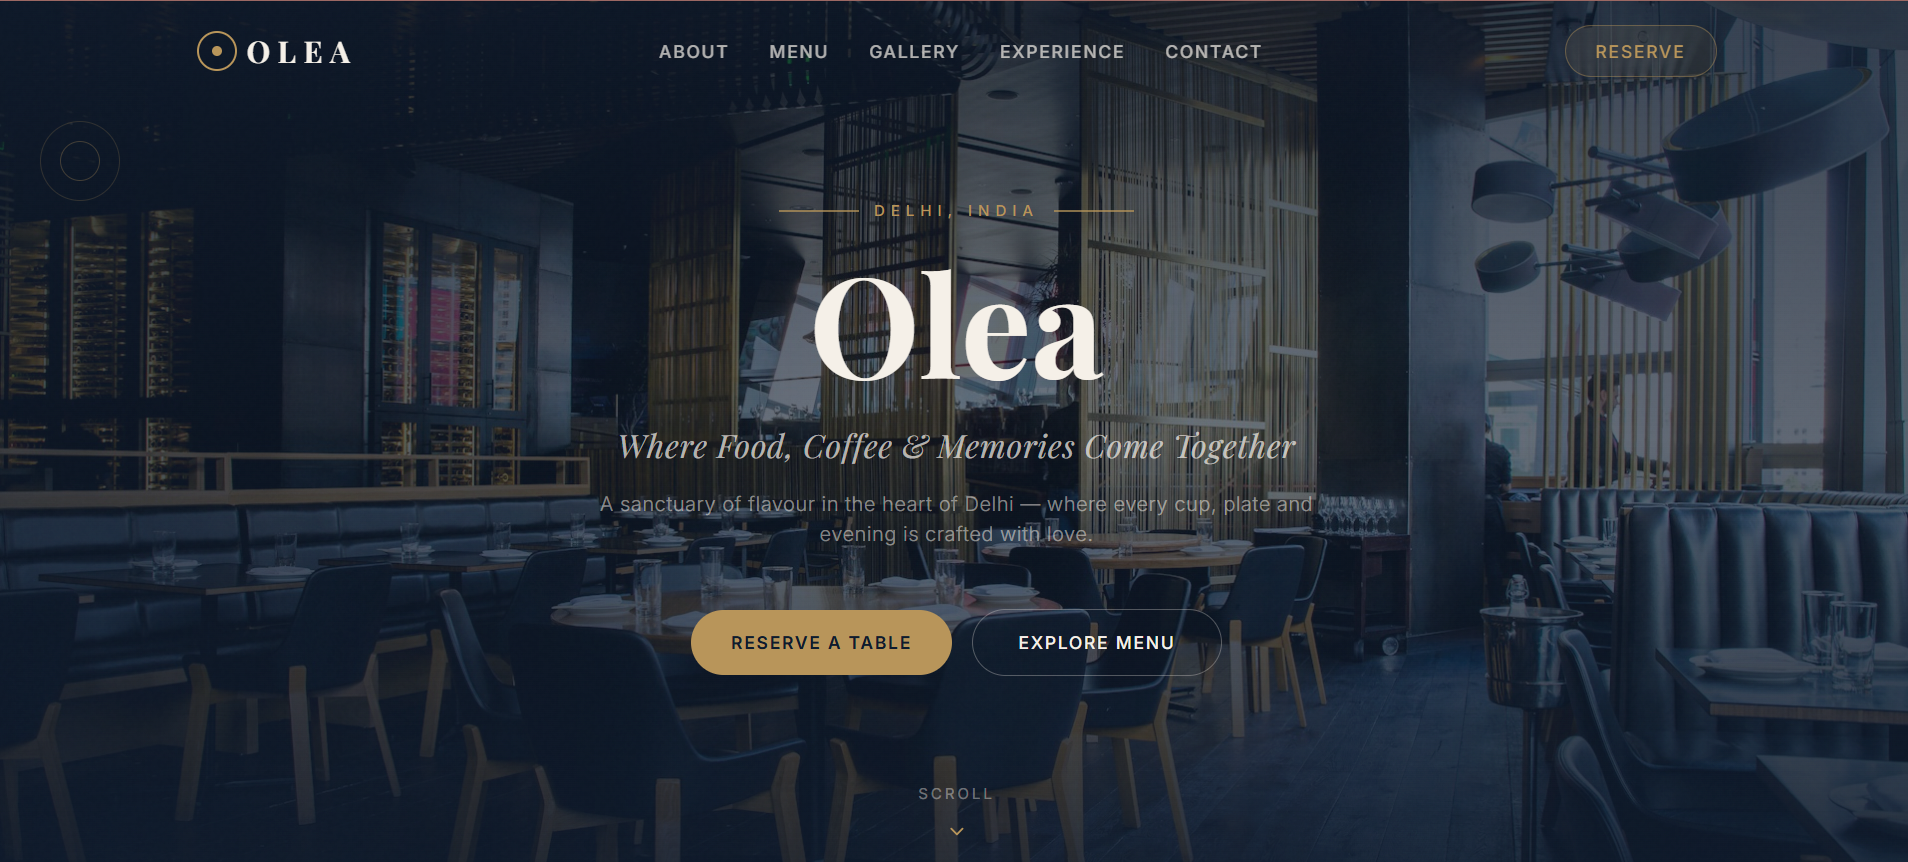
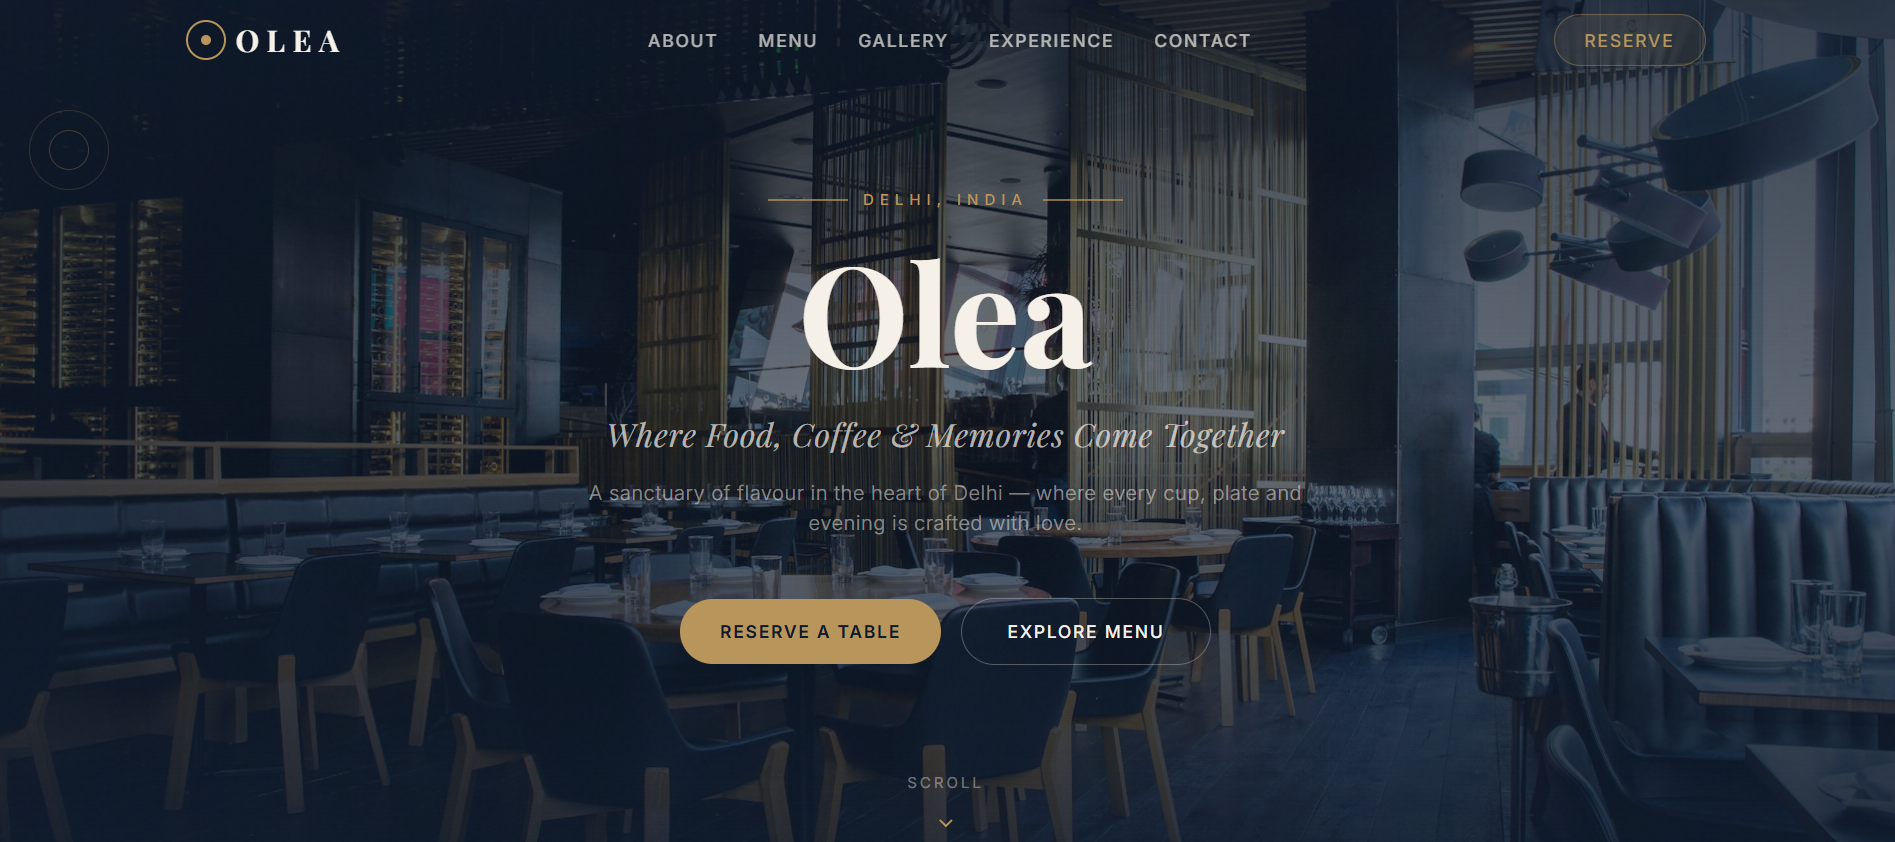
added images of projects

diff --git a/components/ui/ProjectCard.tsx b/components/ui/ProjectCard.tsx
@@ -1,5 +1,6 @@
 import { Github, ExternalLink, ImageIcon } from "lucide-react";
 import { Project } from "@/types";
+import Image from "next/image";
 
 interface ProjectCardProps {
   project: Project;
@@ -9,17 +10,17 @@ export default function ProjectCard({ project }: ProjectCardProps) {
   return (
     <article className="card flex flex-col overflow-hidden group">
       {/* Image placeholder */}
-      <div className="h-44 bg-gradient-to-br from-slate-100 to-blue-50 dark:from-slate-800 dark:to-slate-800/60 flex items-center justify-center border-b border-slate-100 dark:border-slate-800">
-        <div className="flex flex-col items-center gap-2 text-slate-300 dark:text-slate-600">
-          <ImageIcon className="w-8 h-8" />
-          <span className="text-xs font-mono">
-            {project.title.toLowerCase().replace(/\s+/g, "-")}
-          </span>
-        </div>
+      <div className="relative h-44 border-b border-slate-100 dark:border-slate-800">
+        <Image
+          src={project.image}
+          alt={project.title}
+          fill
+          className="object-cover"
+        />
       </div>
 
       {/* Content */}
-      
+
       <div className="flex flex-col flex-1 p-5">
         <h3 className="font-semibold text-slate-900 dark:text-slate-100 mb-2 group-hover:text-blue-500 transition-colors">
           {project.title}

diff --git a/lib/data.ts b/lib/data.ts
@@ -47,7 +47,7 @@ export const PROJECTS: Project[] = [
     tech: ["React", "Next.js", "Tailwind CSS"],
     githubUrl: "https://github.com/VanshikaGhatwal/trix-cafe",
     liveUrl: "https://trix-cafe.vercel.app",
-    image: "https://images.unsplash.com/photo-1554118811-1e0d58224f24?w=1920&q=90",
+    image: "/trix.png",
   },
   {
     id: 3,